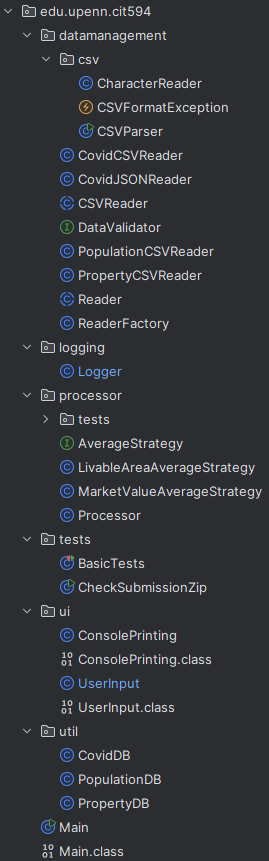
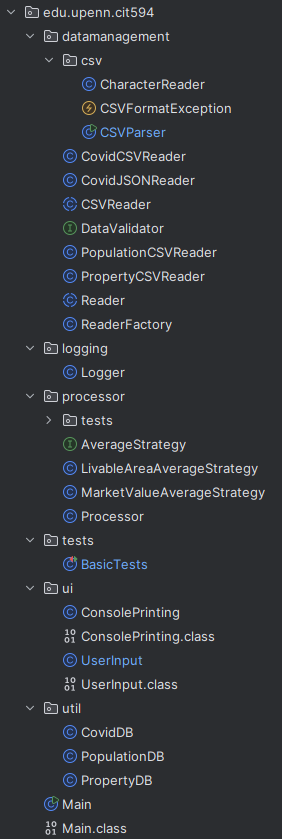
Cleaned up vestigial code, image references

diff --git a/analysis-project-main/src/edu/upenn/cit594/ui/UserInput.java b/analysis-project-main/src/edu/upenn/cit594/ui/UserInput.java
@@ -35,39 +35,6 @@ public class UserInput {
 
     }
 
-//    public int getUserIntChoice(int maxIntChoice){
-//
-//        Scanner userInput = new Scanner(System.in);
-//        int userSelection = -1;
-//
-//        System.out.print("> ");
-//        System.out.flush();
-//
-//        // do-while loop will continue to execute until the user provides an int between 0 and the max possible selection
-//        do {
-//
-//            if (userInput.hasNext()) {
-//                // If the user inputs a non-integer value, notify the user and re-prompt
-//                while (!userInput.hasNextInt()) {
-//                    System.out.println("Input invalid! Please enter an integer between 0 and " + maxIntChoice);
-//                    System.out.print("> ");
-//                    System.out.flush();
-//                    userInput.next(); // this will consume the non-valid input, allowing the user's next input to be checked by the loop condition
-//                }
-//
-//                userSelection = userInput.nextInt();
-//
-//                if ((userSelection < 0) || (userSelection > 7)) {
-//                    System.out.println("Input invalid! Please enter an integer between 0 and " + maxIntChoice);
-//                    System.out.print("> ");
-//                    System.out.flush();
-//                }
-//            }
-//        } while ((userSelection < 0) || (userSelection > maxIntChoice)); // if user selection is less than 0 or greater than the maz possible selection, start loop over
-//
-//        // if the do-while loop has been exited, user has provided a valid int between the prescribed range, return the selection
-//        return userSelection;
-//    }
 
     public int getUserIntChoice(int maxIntChoice) {
 //        Scanner userInput = new Scanner(System.in);
@@ -120,24 +87,6 @@ public class UserInput {
         System.out.print("> ");
         System.out.flush();
 
-        // do-while loop will continue to execute until the user provides a valid date entry YYYY-MM-DD
-//        do {
-//
-//            String argument = userInput.next();
-//            Matcher matcher = pattern.matcher(argument);
-//
-//            // IF the provided string does not match the regex, notify the user and reprompt
-//            if (!matcher.matches()){
-//                System.out.println("Input invalid! Please enter a date in the format: YYYY-MM-DD!");
-//                System.out.print("> ");
-//                System.out.flush();
-//            } else {  // ELSE IF the provided string does match the correct format, store the date in the date array and set input Valid to true
-//                date = argument;
-//                inputValid = true;
-//            }
-//
-//        } while (!inputValid); // This loop can only be exited once the user provides a correctly formatted date
-
         while (true) {
             if (userInput.hasNext()) {
 
@@ -178,18 +127,6 @@ public class UserInput {
         System.out.print("> ");
         System.out.flush();
 
-//        while (!inputValid) {
-//            zipCode = userInput.next(); // Reads the user input
-//            Matcher matcher = pattern.matcher(zipCode);
-//
-//            if (matcher.matches()) { // Check if input matches the 5-digit pattern, if so inputValid is set to true so the do-while loop can be escaped.
-//                inputValid = true;
-//            } else {
-//                System.out.println("Invalid input! Please enter exactly 5 digits.");
-//                System.out.print("> ");
-//                System.out.flush();
-//            }
-//        }
 
         while (true) {
             if (userInput.hasNext()) {
@@ -228,17 +165,6 @@ public class UserInput {
         System.out.print("> ");
         System.out.flush();
 
-//        while (!inputValid) {
-//            userResponse = userInput.next().toLowerCase();
-//
-//            if ((userResponse.equals("partial")) || (userResponse.equals("full"))){
-//                inputValid = true;
-//            } else {
-//                System.out.println("Invalid input! Please enter partial or full");
-//                System.out.print("> ");
-//                System.out.flush();
-//            }
-//        }
 
         while (true) {
             if (userInput.hasNext()) {

diff --git a/analysis-project-main/src/edu/upenn/cit594/tests/BasicTests.java b/analysis-project-main/src/edu/upenn/cit594/tests/BasicTests.java
@@ -32,32 +32,6 @@ public class BasicTests {
 
 	public static boolean triedToExit = false;
 
-	/*
-	 * Student code should exit by returning from main(), not by calling System.exit
-	 */
-//	@Before
-//	public void blockExit() {
-//		System.setSecurityManager(new SecurityManager() {
-//			public void checkExit(int status) {
-//				SecurityException se = new SecurityException("Student code called System.exit");
-//				// se.printStackTrace();
-//				throw se;
-//			}
-//
-//			public void checkPermission(java.security.Permission perm) {
-//			}
-//		});
-//	}
-//
-//	@After
-//	public void resetExit() {
-//		System.setSecurityManager(null);
-//	}
-
-	/*
-	 * Note no safety is provided. This routine is expected to fail with any error
-	 * or exception in the student code.
-	 */
 	public String runMain(String[] args, String input) throws Exception {
 		PrintStream realout = System.out;
 		InputStream realin = System.in;

diff --git a/analysis-project-main/src/edu/upenn/cit594/datamanagement/csv/CSVParser.java b/analysis-project-main/src/edu/upenn/cit594/datamanagement/csv/CSVParser.java
@@ -1,17 +1,4 @@
 package edu.upenn.cit594.datamanagement.csv;
-/*
- * I attest that the code in this file is entirely my own except for the starter
- * code provided with the assignment and the following exceptions:
- * <Enter all external resources and collaborations here. Note external code may
- * reduce your score but appropriate citation is required to avoid academic
- * integrity violations. Please see the Course Syllabus as well as the
- * university code of academic integrity:
- *  https://catalog.upenn.edu/pennbook/code-of-academic-integrity/ >
- * Signed,
- * Author: Virgilio Gonzenbach
- * Penn email: <vgonzenb@seas.upenn.edu>
- * Date: 2024-03-10
- */
 
 import java.io.IOException;
 import java.util.ArrayList;
